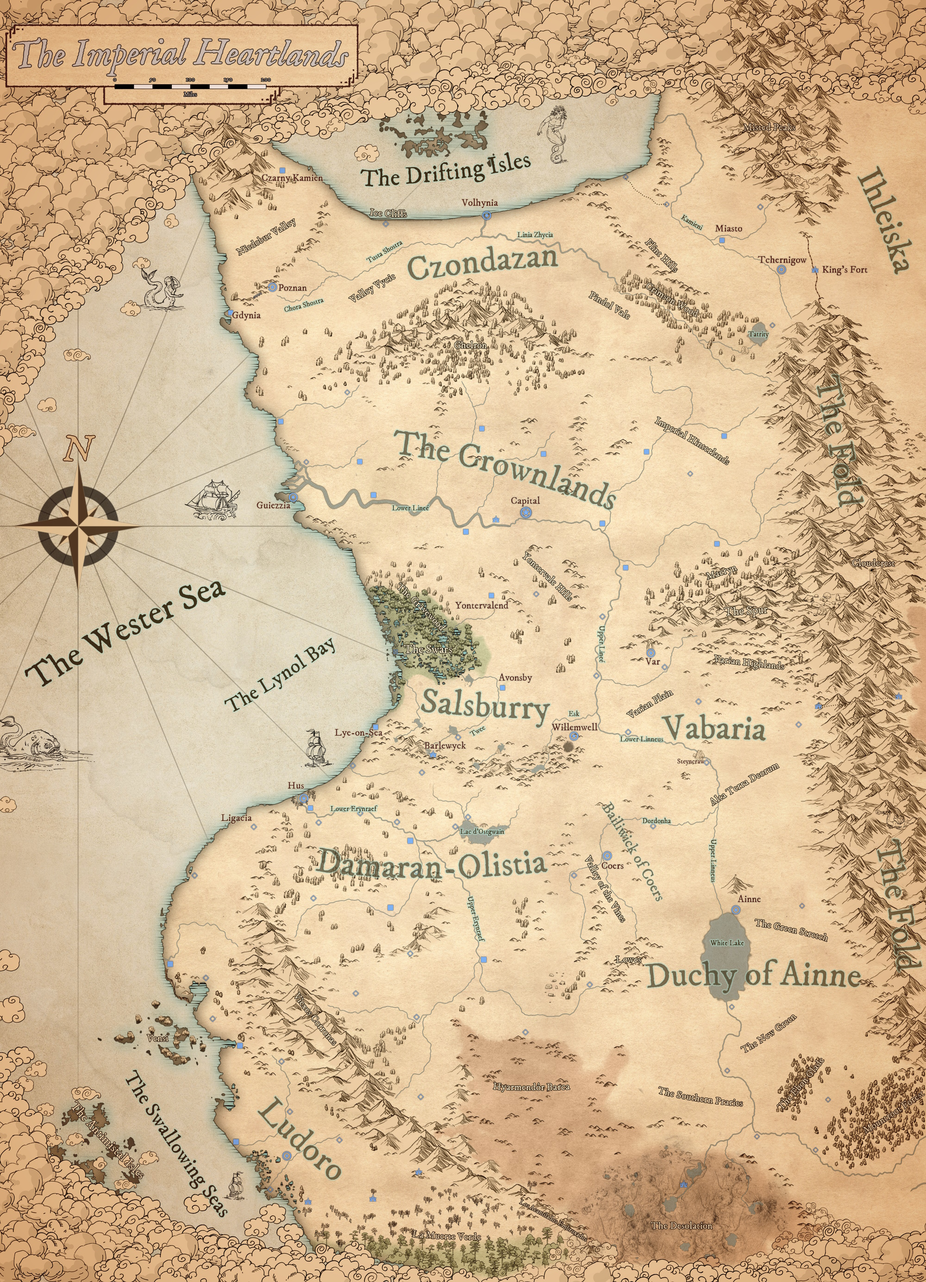
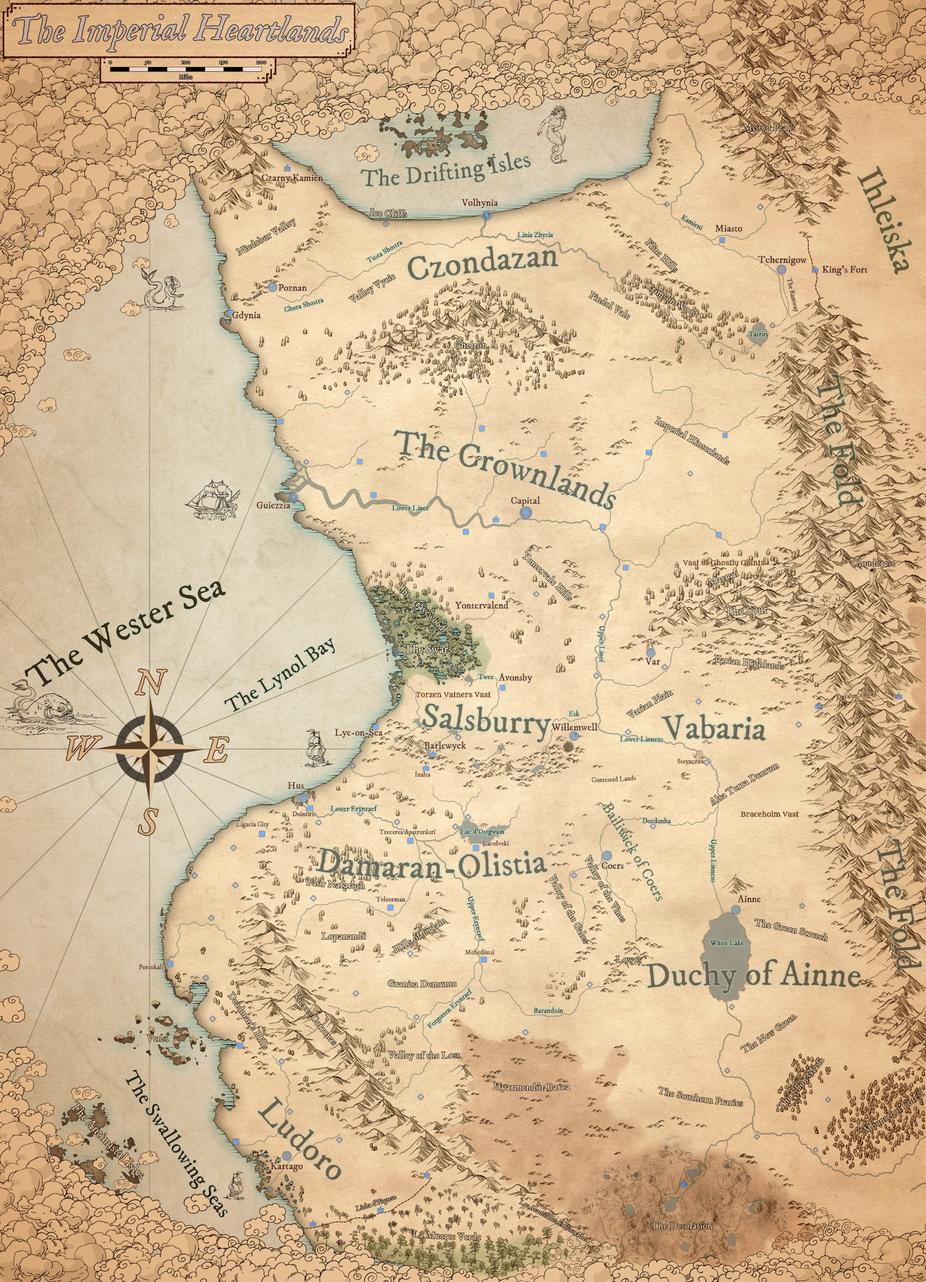
added ihleiska map, work on PEDD

diff --git a/personal_site/src/views/DndView.vue b/personal_site/src/views/DndView.vue
@@ -19,7 +19,7 @@ import PointBuyCalculator from '../components/PointBuyCalculator.vue';
 import { putMdinElement } from '../assets/functionality';
 import { onMounted } from 'vue';
 
-onMounted(() => putMdinElement('src/assets/playerbrief.md', 'player-brief'));
+onMounted(() => putMdinElement('src/assets/articles/playerbrief.md', 'player-brief'));
 </script>
 
 <style>

diff --git a/personal_site/src/views/TransissionalView.vue b/personal_site/src/views/TransissionalView.vue
@@ -11,7 +11,7 @@
 import { putMdinElement } from '../assets/functionality';
 import { onMounted } from 'vue';
 
-onMounted(() => putMdinElement('src/assets/transissional.md', 'transissional'));
+onMounted(() => putMdinElement('src/assets/articles/transissional.md', 'transissional'));
 </script>
   
 <style>

diff --git a/personal_site/src/components/Profile.vue b/personal_site/src/components/Profile.vue
@@ -9,7 +9,7 @@ import { putMdinElement } from '../assets/functionality'
 import { onMounted } from 'vue';
 
 onMounted(() => {
-    putMdinElement('src/assets/profile.md', 'profile');
+    putMdinElement('src/assets/articles/profile.md', 'profile');
 });
 </script>
 

diff --git a/personal_site/buildWikiRoutes.py b/personal_site/buildWikiRoutes.py
@@ -4,6 +4,6 @@ from pathlib import Path
 routes = os.listdir('.\\src\\assets\\wiki')
 print(json.dumps(routes))
 
-f = open("wikiroutes.json", "w")
+f = open(".\\src\\assets\\wikiroutes.json", "w")
 f.write(json.dumps(routes))
 f.close()

diff --git a/personal_site/src/assets/pedd/pedd.md b/personal_site/src/assets/pedd/pedd.md
@@ -299,7 +299,58 @@ Powers are “in training” before coming online, to encourage roleplay of skil
 For the intended "power level" of a Power, take any Feat from the PHB which has a Stat increase component, and remove the Stat increase.
 
 ### Spheres of Magic
-Spellcasting is a Feature that had to receive major reworking, and is still WIP.
+Spellcasting has undergone a serious remake. Gone are spell casting classes, of course, and spell lists for each class. Now all spell lists are combined into 4 “Spheres of Magic”; Arcane, Divine, Primal and Occult. The nebulous "Spellcasting" feature has been separated into 5 different spellcasting Powers, one for each Sphere as well as one for Pact Magic. Each are fundamentally unique and not just because of the associated spell list, adding both flavour and mechanical differentiation. Note that there is significant overlap for the spheres, many spells belong to, and are usable by, more than one sphere.
+
+#### Mana Magnitude and Reserve
+Spell levels and spell slots have also received a semantic rework, as the naming convention is old and counter-productive. Countless times I've had new players get confused about levels, spell levels and how spell slots work. Spell levels are relabelled to "Magnitude" and spell slots to "Reserve". A spellcaster has a "Mana Reserve of X Magnitude Y Casts", with one spell cast being simply known as a "Cast". This also translates well when talking about "up-casting".
+
+#### Innate Spells, and Prepared Spells & Sources
+Another semantic rework is "Prepared" spellcasting and spellcasting with "Known spells". Now there are explicit Innate and Prepared Spells. "Innate spells" are learned spells memorised or made reflexive by the caster, they never need to be prepared. All Cantrips, for example, are Innate (and also take 0 Reserve to Cast). Prepared spells then, to Spheres that can, allow a spell caster to Prepare a spell they don't otherwise have ready for use. The manner and method a spell is Prepared depends on the Sphere, but it means the caster can choose from any Spell they have access to in their "Source":
+
+- The source of Arcane spells is the wizard’s spellbook, which they accrue over time by writing down Arcane Sphere spells they encounter and invent.
+- The source of Divine spells are that devotee's deity. This is a spell list which the deity, in all their wisdom and might, chooses for the day from all the Divine Sphere spells. Ultimately the DM, somewhat knowing the future with their preparation and who acts as the deity in question, produces a subset of the divine sphere which the character can then choose from. Alternatively the DM and player check whether the spell list the player wants for that day is OK by the Diety (the DM). It might be that, for a given day, a deity requires a character to prepare a particular spell.
+- Primal spells can be sourced from the entire primal sphere of magic, but it is fundamentally limited in breadth and scope compared to the others so this seeming advantage is still balanced.
+
+#### The Arcane Sphere
+(All Wizard spell list spells are available to the Arcane Sphere)
+
+Arcane magic practitioners, commonly called wizards, are your typical learned mage. They collect a large repertoire of Prepared spells in their Spellbook; and through intense study can memorise the immense complexities of a select few spells, making that spell Innate for them. Famously, wizards are known to invent spells [choosing any spell from the Arcane Sphere or working with the GM to craft custom spells] as a down time activity.
+
+See the Arcane Spellcasting Power (which is largely unchanged from Wizard's Spellcasting).
+
+#### The Divine Sphere
+(All Cleric & Paladin spell lists spells are available )
+Divine Magic can have innate spells and prepared spells. Divine spells are cast using Faith*, a new Stat for them. It starts a +2 but due to character actions with player collaboration the DM can choose to increase or decrease the Stat, typically by 1 in either direction though monumental actions may have monumental consequences. 
+
+#### The Primal Sphere
+(Druid & Ranger spell lists)
+
+#### The Occult Sphere
+(Bard, Sorcerer & Warlock spell lists)
+
+
+
+#### Pact Magic
+Pact Magic is a separate Power which is the Break recharging, snowflake spellslot progression bastard child of Occult magic which requires the Patron Power. By default it has access to the Occult Sphere but Patrons are known to plug their warlocks with all sorts of spells. They have a few innate spells and smaller than normal Reserve known as their “Stipend” that “Recharges” after a Break and they cast using Charisma/Perception/Intelligence (Patron dependent). 
+
+Occult spells are always innate, esoteric knowledge plugged into the mind/body of the Sorcerer. It keys off Charisma. 
+
+
+
+
+Primal Magic can have innate spells as well as prepared spells which the caster can freely choose from the entire Primal Sphere at the end of each Rest where they also must commune with nature. This establishes their connection with nature that powers their magic, granting a value from +0 to +5. 
+•	For locations bursting with nature (forests, coasts, swamps etc) their Spellcasting modifier might be +4/+5. 
+•	For locations with a fair amount of nature (harvested fields, open sea, mushroom caves) its + 2/+3. 
+•	For locations with a low amount of nature (urban sprawl, empty caves, barren deserts, deep snow) it would be +1. 
+•	For utterly barren locations it would be 0.
+
+Life is consistent in its tenacity, so is life magic. Limited in scope and steady in power. 
+
+
+
+
+#### Spell Schools
+Spell schools are another vestigial part of the D&D system, but I think they're actually quite interesting and deserve a bit more love. Now many Powers key specifically off a spell's school, hopefully making them more interesting and useful!
 
 ### Proficiencies Rework; PEDD Skills
 A part of Powers Progression is the flattening of the odd little distinct yet related categories of "Skills, Tools, Languages and Weapon & Armor Proficiencies". They all are now "Skills". Weapons have also been regrouped into "Weapon Classes", no longer "Simple" and "Martial" and no longer taken for Proficiency individually, as that's too fine-grained, or gained as one of the massive sets "Simple" and "Martial" as they were far too broad. 

diff --git a/personal_site/src/assets/pedd/powers.md b/personal_site/src/assets/pedd/powers.md
@@ -1,4 +1,29 @@
 Power - power name
 Tags - race, backgroundable, etc
 Prerequisites - think of a way to make this parsable to the point where programmatic checking of met prerequisites can be done (needs programmable prerequisites then, lol)
-Description
+Description - desc. A colon (:) denotes a multi-line description of header - body syntax with the section ending with another colon
+
+---
+
+Power - Arcane Spellcasting
+Tags - Background, Unique
+Prerequisites - Intelligence +1
+Description - : **Cantrips** - You know three cantrips of your choice from the Arcane Sphere.
+
+**Spellbook** - You have a spellbook containing six 1st-Magnitude arcane spells of your choice. Your spellbook is the repository of the spells you know, except your Innate spells, which are fixed in your mind. You can add to your spellbook through two methods: spell invention or by copying spells you encounter in your adventures. Spell invention is a downtime activity, and you can only invent spells that you have the mana Magnitude for. Any spell scrolls, spell books or willing teachers you encounter in your adventures can let you copy those spells into your spellbook. Copying a spell into your spellbook involves reproducing the basic form of the spell, then deciphering the intricacies of the spell into a form your mind can replicate in magic. You must practice the spell until you understand the sounds and/or gestures required, then transcribe it into your spellbook. For each Magnitude of the spell, the process takes 2 hours and costs 50 gp. The cost represents material components you expend as you experiment with the spell to master it, as well as the fine inks you need to record it. Once you have spent this time and money, you can prepare the spell just like your other spells.
+
+**Replacing the Book** - You can copy a spell from your own spellbook into another book-for example, if you want to make a backup copy of your spellbook. This is just like copying a new spell into your spellbook, but faster and easier, since you understand your own studies and already know how to cast the spell. You need spend only 1 hour and 10 gp for each level of the copied spell. If you lose your spellbook, you can use the same procedure to transcribe the spells that you have prepared into a new spellbook. Filling out the remainder of your spellbook requires you to find new spells to do so, as normal. For this reason, many wizards keep backup spellbooks in a safe place.
+
+**The Book's Appearance** - Your spellbook is a unique compilation of spells, with its own decorative flourishes and margin notes. It might be a plain, functional leather volume that you received as a gift from your master, a finely bound gilt-edged tome you found in an ancient library or even a loose collection of notes scrounged together after you lost your previous spellbook in a mishap.
+
+**Preparing and Casting Spells** - You also gain one rank in the Mana Reserve and Magnitude Power, which you use to cast your spells. In addition to any Innate spells you know, you prepare a list of arcane spells that are available for you to cast each day. To do so, choose a number of wizard spells from your spellbook equal to your Intelligence + your Bonus. The spells must be of a Magnitude that you have the ability to Cast. You can change your list of prepared spells when you finish a long rest. Preparing a new list of arcane spells requires time spent studying your spellbook and memorizing the incantations and gestures you must make to cast the spell: at least 1 minute per spell level for each spell on your list.
+
+**Spellcasting Ability** - Intelligence is your spellcasting ability for your arcane spells, since you learn your spells through dedicated study and memorization. You use your Intelligence whenever a spell refers to your spellcasting ability. In addition, you use your Intelligence when setting the saving throw DC for an arcane spell you Cast and when making an attack roll with one.
+
+**Spell save DC** - 8 + your Bonus + your Intelligence
+
+**Spell attack modifier** - your Bonus + your Intelligence
+
+**Ritual Casting** - You can cast an arcane spell as a ritual if that spell has the ritual tag and you have the spell in your spellbook. You don't need to have the spell prepared.
+
+**Spellcasting Focus** - You can use an arcane focus as a spellcasting focus for your wizard spells. :

diff --git a/personal_site/src/assets/articles/transissional.md b/personal_site/src/assets/articles/transissional.md
@@ -4,7 +4,7 @@
 
 > #### New Edition 
 >
-> This is a condensed and edited version of my various bits of work on an English Spelling reform I call Transissionel Inglish, effectively now edition five due to the addition of four previous versions and now this online one. The 4th iteration presented the reform in a more consistent and logical fashion than the initial document which was more of a design as you went mess, and now this online version is the authorative version that is also publicy facing. 😱
+> This is a condensed and edited version of my various bits of work on an English Spelling reform I call Transissionel Inglish, effectively now edition five due to the addition of four previous versions and now this online one. The 4th iteration presented the reform in a more consistent and logical fashion than the initial document which was more of a design as you went mess, and now this online version is the authoritative version that is also public facing. 😱
 
 ### Mission 
 

diff --git a/personal_site/src/assets/wiki/IhleiskaMap.md b/personal_site/src/assets/wiki/IhleiskaMap.md
@@ -1,0 +1,8 @@
+# Ihleiska Map
+
+This is a map of the Many Kingdoms of Ihleiska, a hitherto backwater of Mitteland until recently where Imperial interests have waxed strongly with Stannis' New Army's ties to orc stock. Now a conflict of three ideologies rears as times are changing in the arboreal vallies of Ihleiska. Native beliefs vie with the Everlight faith while fiercely independent 'Kings' seek to retain their independence against Imperial influence, evenwhile ancient residents vie amongst each other to dominate in this place filled to the brim with the old and forgotten, and now the very new.
+
+### The Many Kingdoms of Ihleiska
+<div class="img-wrap">
+    <img src="/src/assets/Ihleiska.png">
+</div>
